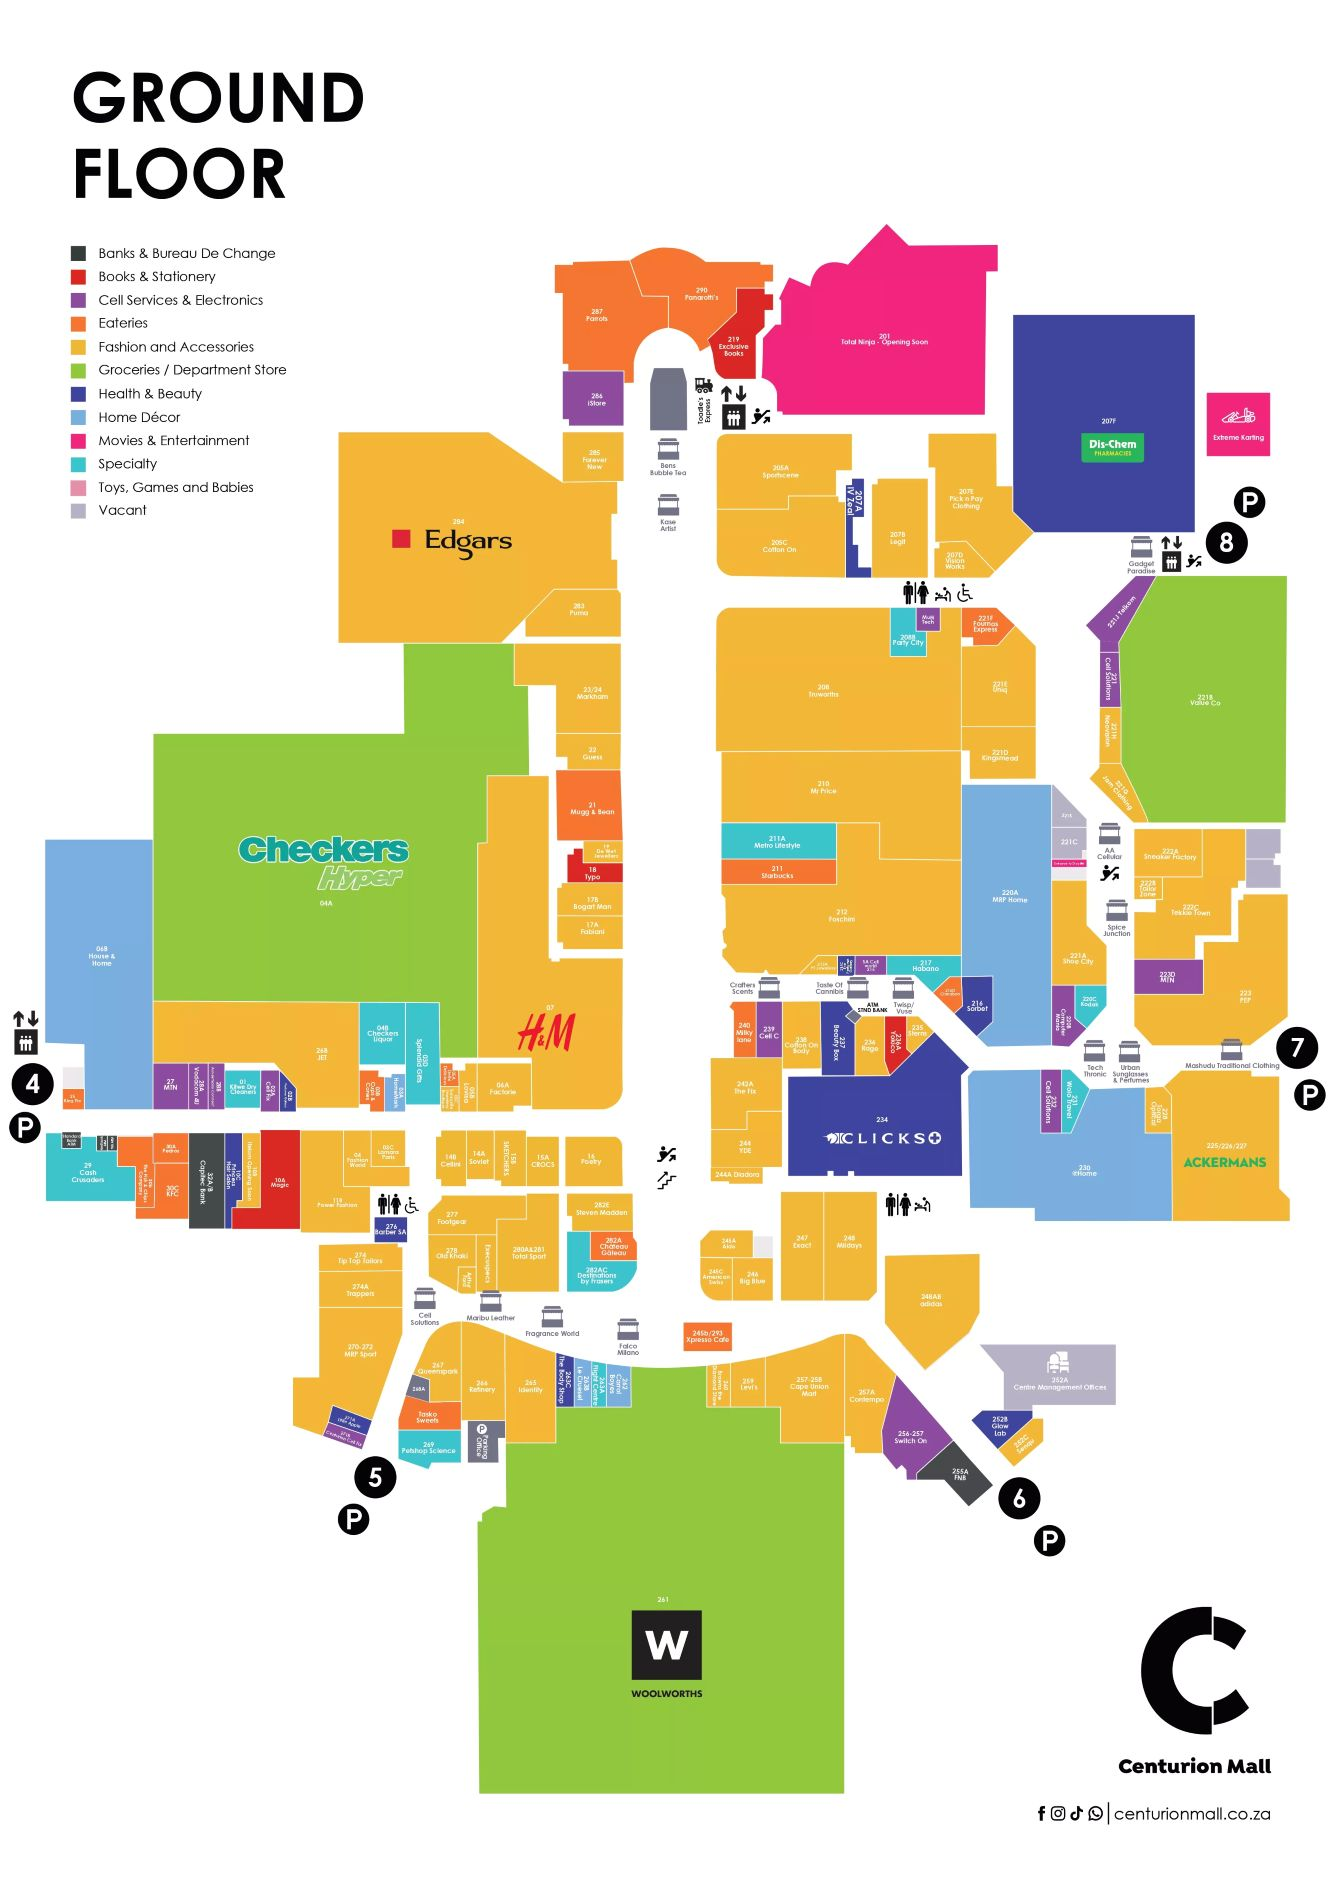
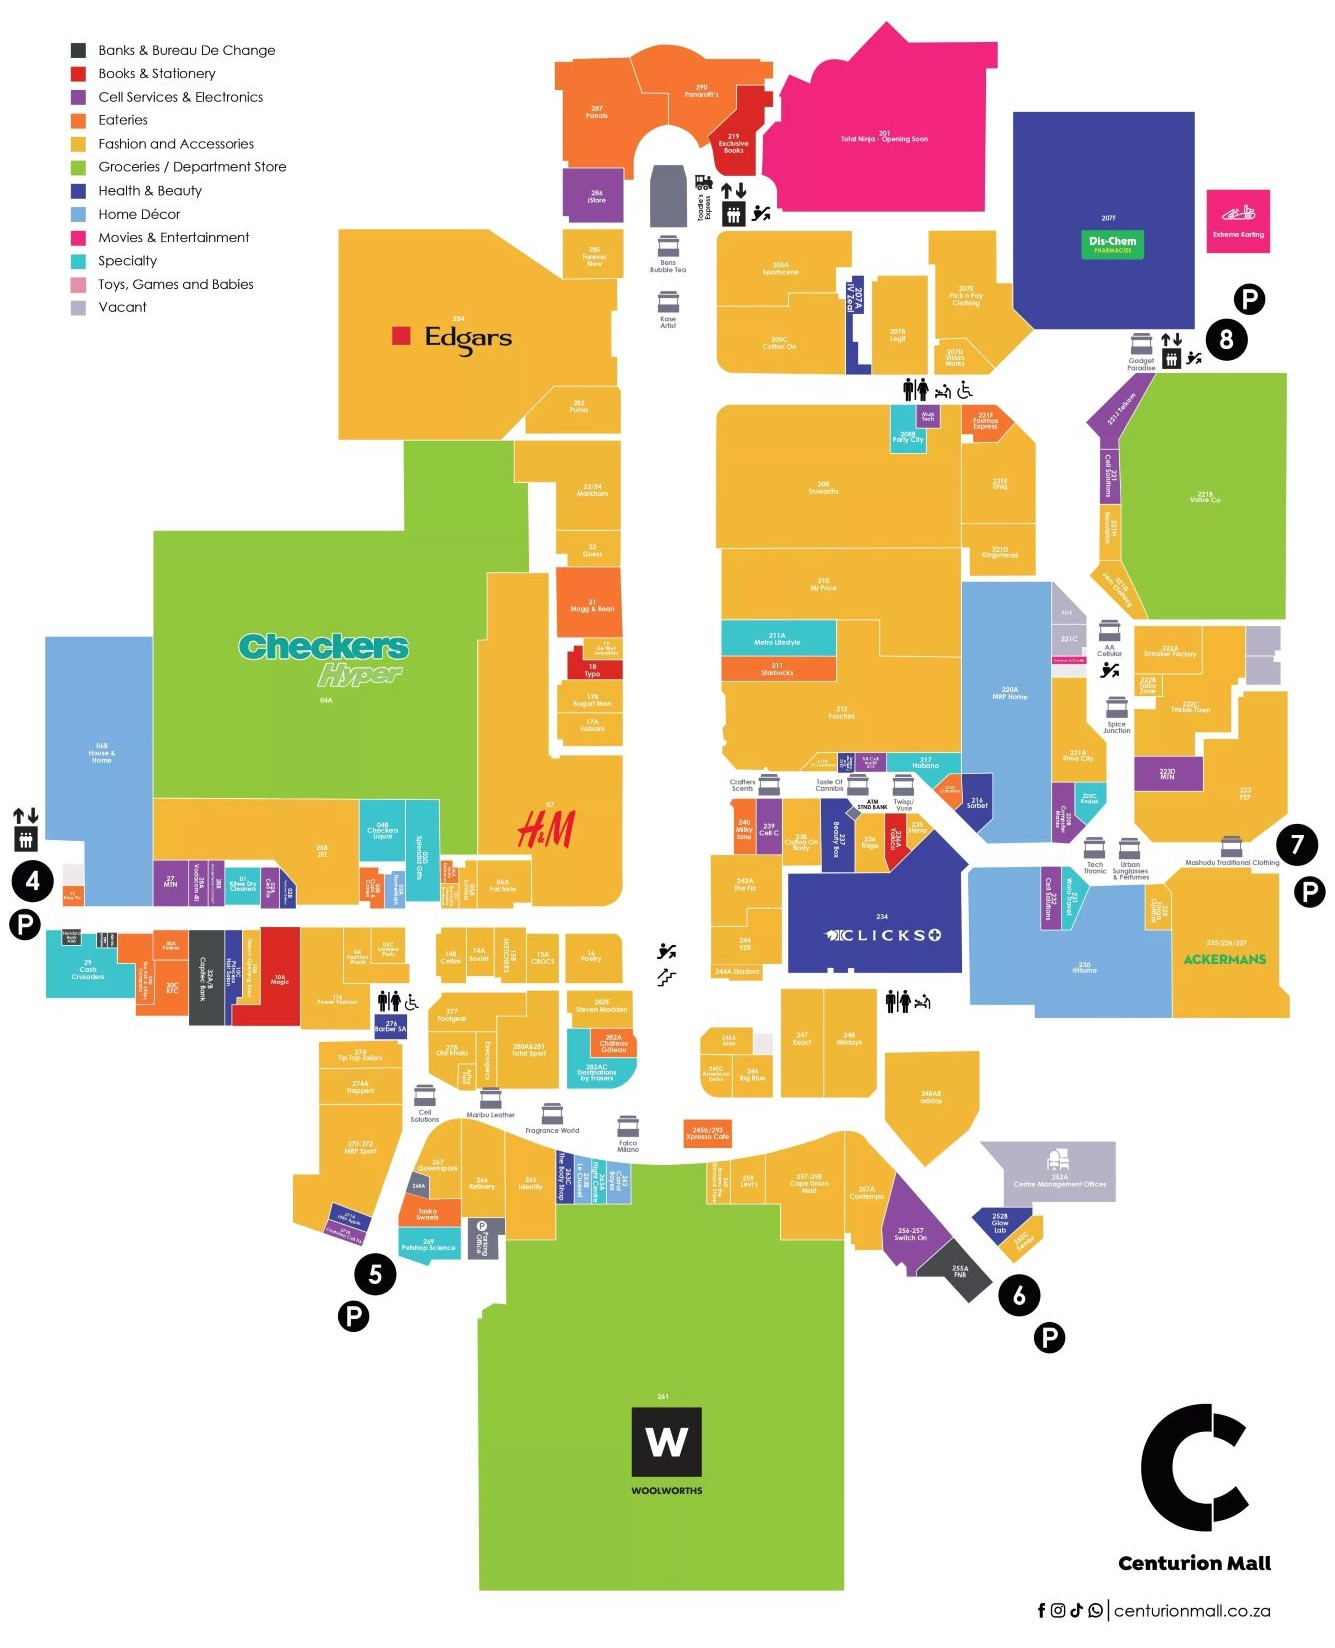
Map page

diff --git a/style.css b/style.css
@@ -69,3 +69,61 @@ body {
     text-decoration: none;
     padding-top: 12px;
 }
+
+/*================ MAIN-MAP ================*/
+
+#main-map {
+    margin-top: 190px;
+}
+
+/*================ MAIN ================*/
+
+#main {
+    margin-top: 189px;
+    background: url('images/blur.png');
+    background-size: cover;
+}
+
+#content {
+    padding-top: 1px;
+    padding-bottom: 50px;
+}
+
+/*================ MAIN ================*/
+
+a.info-box {
+    text-decoration: none;
+    background: rgba(138, 119, 157, 0.552);
+    width: 90%;
+    height: 90px;
+    display: block;
+    margin: auto;
+    margin-top: 12px;
+    padding: 1px;
+}
+
+.info-box img {
+    height: 70px;
+    margin: 10px;
+    float: left;
+}
+
+.info-box h3 {
+    padding: 0;
+    margin-bottom: 0;
+    width: 90%;
+    color: #55024e;
+}
+
+.info-box p {
+    margin: 0;
+    padding: 0;
+    width: 90%;
+    color: #280247;
+}
+
+.info-box img.right {
+    float: right;
+    margin-top: 25px;
+    height: 40px;
+}

diff --git a/shops.html b/shops.html
@@ -17,15 +17,21 @@
         <a href="contact.html">CONTACT</a>
     </div>
 
-    <div id="main-home">
-        <img src="images/blur.png" width="100%" />
-    </div>
+    <div id="main">
+        <div id="content">
+            <a class="info-box" href="#">
+                <img class="right" src="images/arrow.jpg" />
+                <img src="images/clothing.jpg" .png />
+                <h3>CLOTHING</h3>
+                <p>Shop your latest styles and fashions</p>
+            </a>
+        </div>
 
-    <div id="tabs-bottom">
-        <a href="shops.html">SHOPS</a>
-        <a href="movies.html">MOVIES</a>
-        <a href="map.html">MAP</a>
-    </div>
+        <div id="tabs-bottom">
+            <a href="shops.html">SHOPS</a>
+            <a href="movies.html">MOVIES</a>
+            <a href="map.html">MAP</a>
+        </div>
 
 </body>
 

diff --git a/map.html b/map.html
@@ -17,8 +17,8 @@
         <a href="contact.html">CONTACT</a>
     </div>
 
-    <div id="main-home">
-        <img src="images/blur.png" width="100%" />
+    <div id="main-map">
+        <img src="images/map.jpg" width="100%" />
     </div>
 
     <div id="tabs-bottom">

diff --git a/about.html b/about.html
@@ -17,9 +17,7 @@
         <a href="contact.html">CONTACT</a>
     </div>
 
-    <div id="main-home">
-        <img src="images/blur.png" width="100%" />
-    </div>
+
 
     <div id="tabs-bottom">
         <a href="shops.html">SHOPS</a>

diff --git a/game.html b/game.html
@@ -21,6 +21,8 @@
         <img src="images/blur.png" width="100%" />
     </div>
 
+
+
     <div id="tabs-bottom">
         <a href="shops.html">SHOPS</a>
         <a href="movies.html">MOVIES</a>
